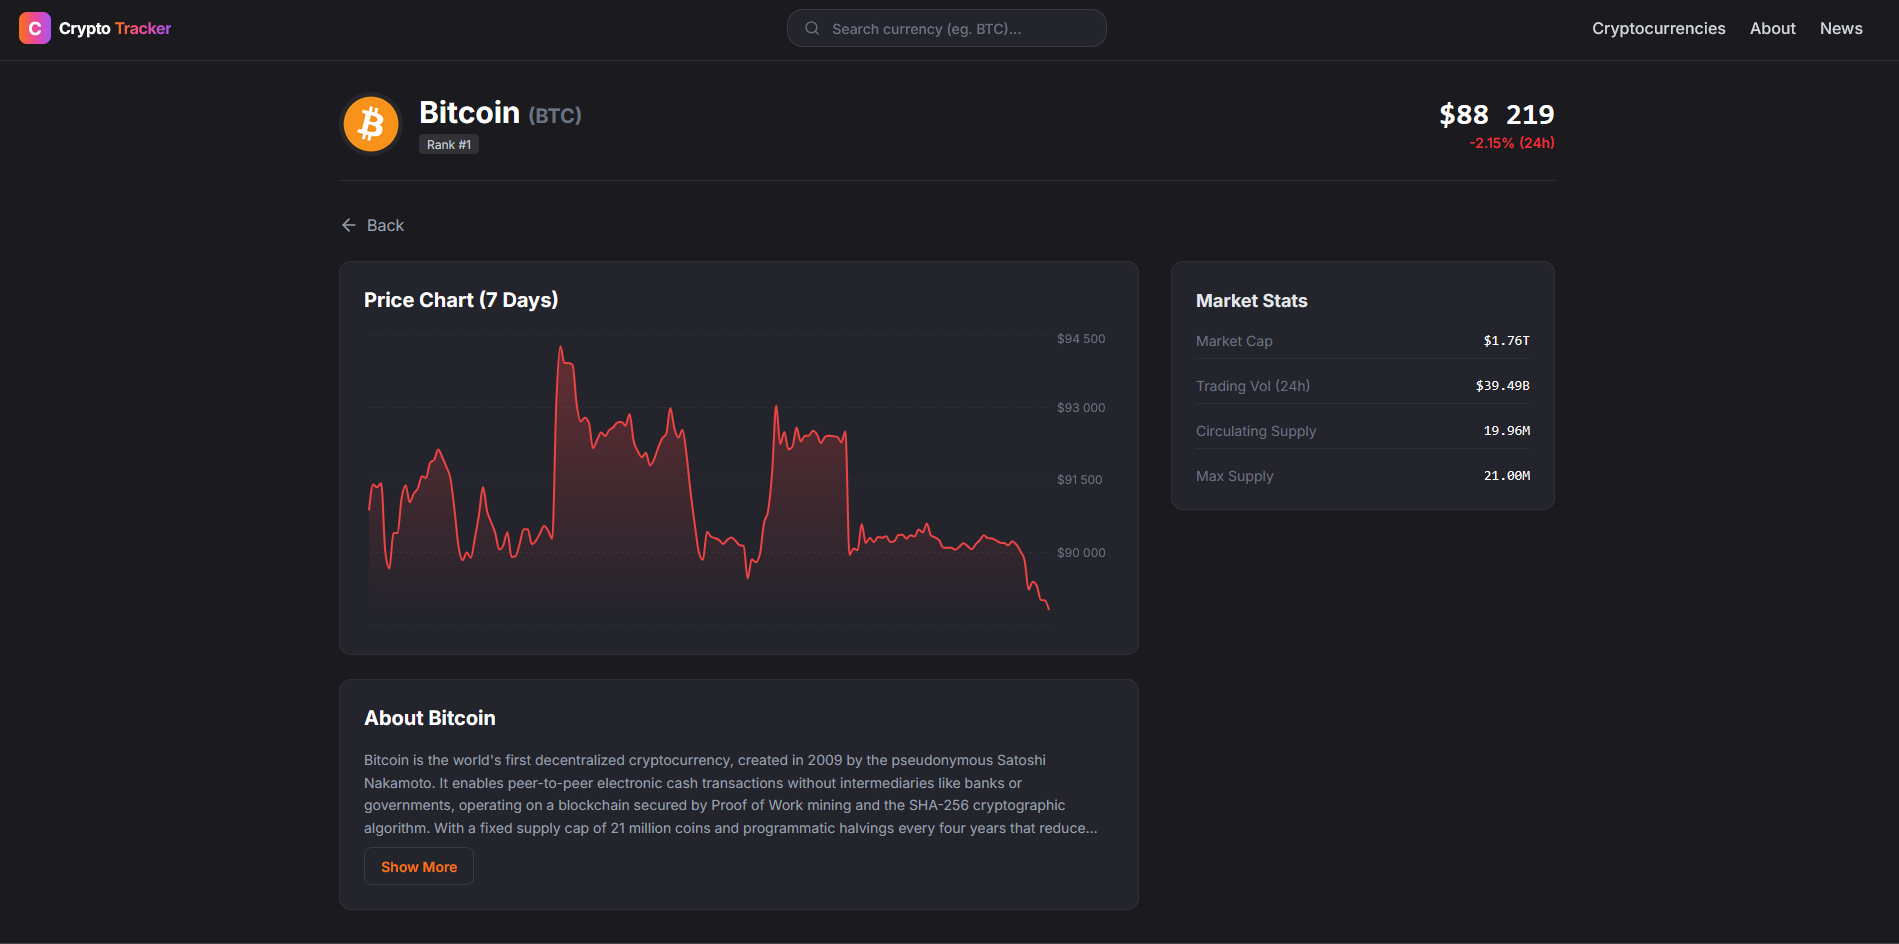
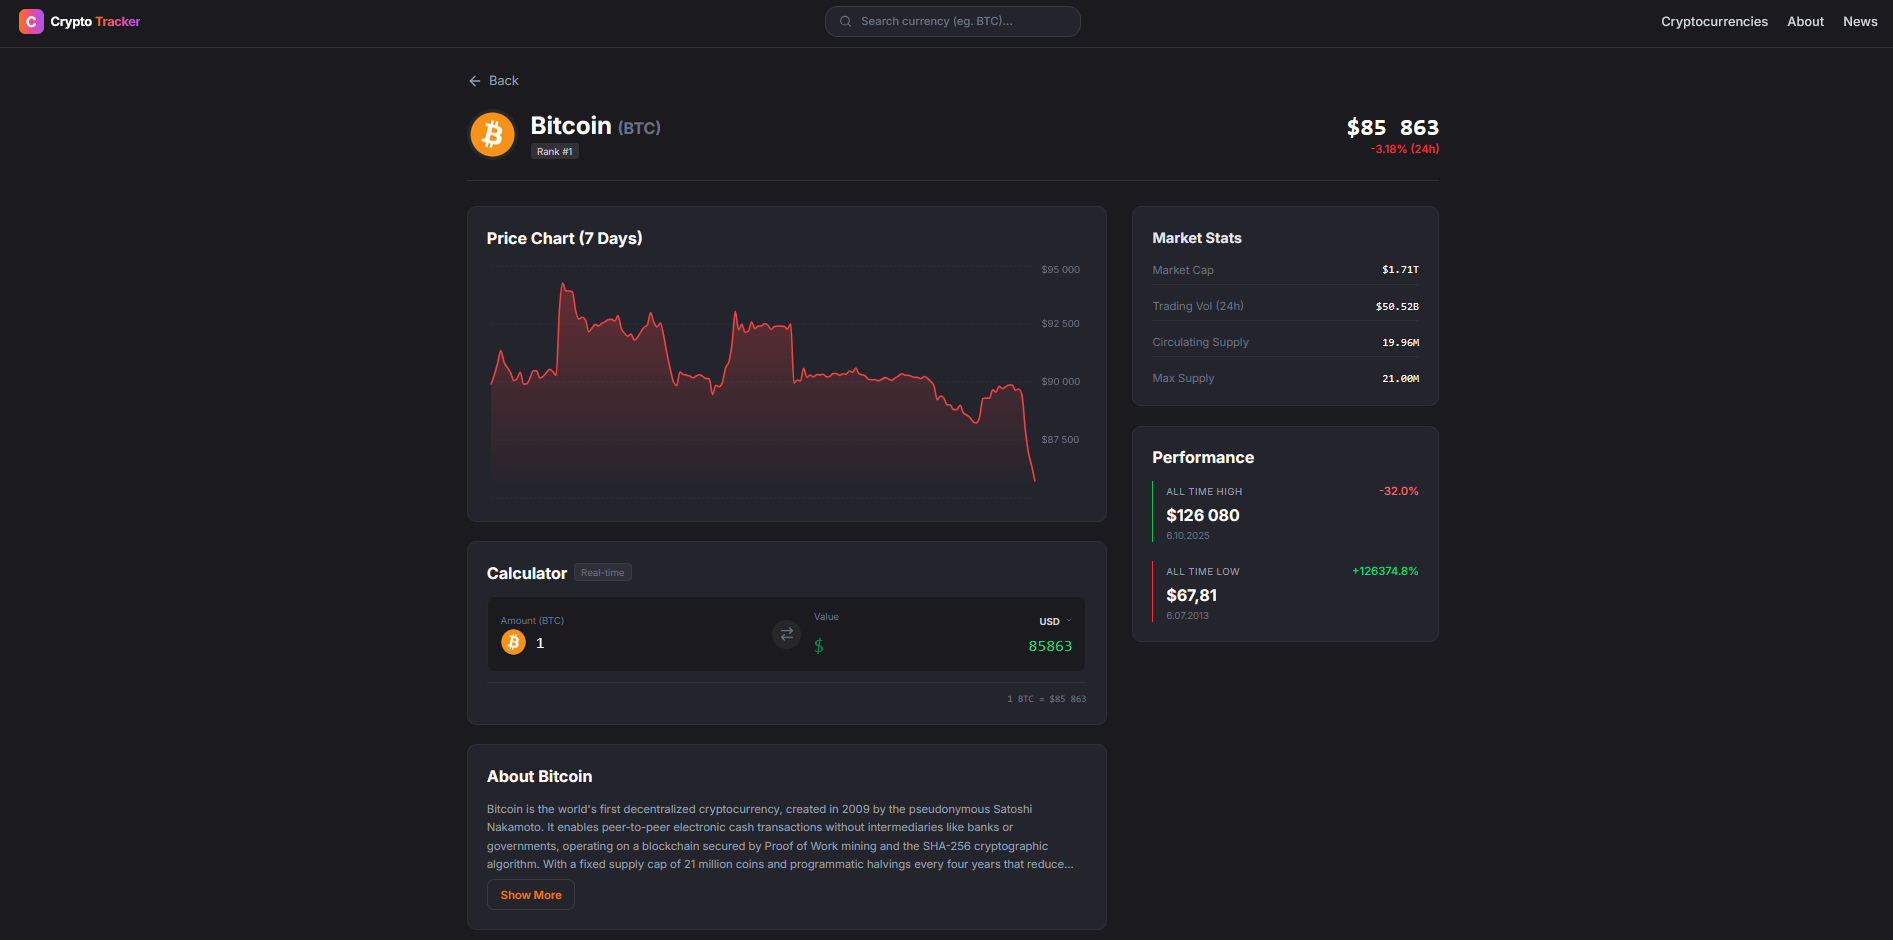
feat: complete coin details page with converter

diff --git a/src/Features/Converter/hooks/useConverterLogic.jsx b/src/Features/Converter/hooks/useConverterLogic.jsx
@@ -1,0 +1,67 @@
+import { useState, useMemo } from "react";
+import { PRIORITY_CURRENCIES, getCurrencySymbol, getFormattedFiat } from "../helpers/converterHelpser";
+
+export function useConverterLogic(coin) {
+	const prices = useMemo(() => {
+		return coin?.market_data?.current_price || {};
+	}, [coin]);
+
+	const availableCurrencies = useMemo(() => {
+		const keys = Object.keys(prices);
+		if (keys.length === 0) return [];
+		return keys.sort((a, b) => {
+			const isAPriority = PRIORITY_CURRENCIES.includes(a);
+			const isBPriority = PRIORITY_CURRENCIES.includes(b);
+			if (isAPriority && !isBPriority) return -1;
+			if (!isAPriority && isBPriority) return 1;
+			return a.localeCompare(b);
+		});
+	}, [prices]);
+
+	const [currency, setCurrency] = useState("usd");
+	const [cryptoAmount, setCryptoAmount] = useState(1);
+	const [fiatAmount, setFiatAmount] = useState(prices.usd || 0);
+
+	const currentRate = prices[currency] || 0;
+
+	const handleCryptoChange = (val) => {
+		if (parseFloat(val) < 0) return;
+
+		setCryptoAmount(val);
+		if (val === "" || isNaN(val)) {
+			setFiatAmount("");
+		} else {
+			setFiatAmount(parseFloat((parseFloat(val) * currentRate).toFixed(6)));
+		}
+	};
+
+	const handleFiatChange = (val) => {
+		if (parseFloat(val) < 0) return;
+		setFiatAmount(val);
+		if (val === "" || isNaN(val)) {
+			setCryptoAmount("");
+		} else {
+			setCryptoAmount(parseFloat((parseFloat(val) / currentRate).toFixed(8)));
+		}
+	};
+
+	const handleCurrencyChange = (newCurrency) => {
+		setCurrency(newCurrency);
+		const newRate = prices[newCurrency];
+		if (cryptoAmount && !isNaN(cryptoAmount)) {
+			setFiatAmount(parseFloat((cryptoAmount * newRate).toFixed(6)));
+		}
+	};
+
+	return {
+		hasData: !!coin?.market_data?.current_price && availableCurrencies.length > 0,
+		currency,
+		cryptoAmount,
+		fiatAmount,
+		currentRate,
+		availableCurrencies,
+		currencySymbol: getCurrencySymbol(currency),
+		formattedRate: getFormattedFiat(currentRate, currency),
+		actions: { handleCryptoChange, handleFiatChange, handleCurrencyChange },
+	};
+}

diff --git a/src/Pages/CoinPage/components/CoinPricePerformence.jsx b/src/Pages/CoinPage/components/CoinPricePerformence.jsx
@@ -1,0 +1,46 @@
+import { formatCurrency, formatPercentage } from "../../../utils/formatters";
+
+function CoinPricePerformence({ coin }) {
+	if (!coin?.market_data) return null;
+	const md = coin.market_data;
+
+	const formatDate = (dateString) => new Date(dateString).toLocaleDateString();
+
+	return (
+		<div className="bg-surface border border-white/5 rounded-xl p-6 mt-6">
+			<h3 className="text-xl font-bold mb-4">Performance</h3>
+
+			<div className="space-y-6">
+				{/* ATH */}
+				<div className="relative pl-4 border-l-2 border-green-500">
+					<div className="flex justify-between items-start">
+						<div>
+							<span className="text-xs text-gray-400 uppercase tracking-wider">All Time High</span>
+							<div className="text-xl font-bold text-white mt-1">{formatCurrency(md.ath.usd) || "-"}</div>
+						</div>
+						<div className="text-right">
+							<span className="text-red-400 text-sm font-medium">{formatPercentage(md.ath_change_percentage.usd) || "-"}</span>
+						</div>
+					</div>
+					<div className="text-xs text-gray-500 mt-1">{formatDate(md.ath_date.usd) || "-"}</div>
+				</div>
+
+				{/* ATL */}
+				<div className="relative pl-4 border-l-2 border-red-500">
+					<div className="flex justify-between items-start">
+						<div>
+							<span className="text-xs text-gray-400 uppercase tracking-wider">All Time Low</span>
+							<div className="text-xl font-bold text-white mt-1">{formatCurrency(md.atl.usd) || "-"}</div>
+						</div>
+						<div className="text-right">
+							<span className="text-green-400 text-sm font-medium">+{formatPercentage(md.atl_change_percentage.usd) || "-"}</span>
+						</div>
+					</div>
+					<div className="text-xs text-gray-500 mt-1">{formatDate(md.atl_date.usd) || "-"}</div>
+				</div>
+			</div>
+		</div>
+	);
+}
+
+export default CoinPricePerformence;

diff --git a/src/Features/Converter/FiatInput.jsx b/src/Features/Converter/FiatInput.jsx
@@ -1,0 +1,38 @@
+import { ChevronDown } from "lucide-react";
+
+export default function FiatInput({ amount, currency, currencies, symbol, onAmountChange, onCurrencyChange }) {
+	return (
+		<>
+			<div className="w-full sm:flex-1 relative group">
+				<div className="flex justify-between mb-1">
+					<label className="text-xs text-gray-500 group-focus-within:text-green-400 transition-colors">Value</label>
+					<div className="relative">
+						<select
+							value={currency}
+							onChange={(e) => onCurrencyChange(e.target.value)}
+							className="appearance-none bg-transparent text-xs font-bold text-gray-300 uppercase pr-4 cursor-pointer outline-none hover:text-white transition-colors text-right"
+						>
+							{currencies.map((c) => (
+								<option key={c} value={c} className="bg-[#2A2B35] text-white">
+									{c.toUpperCase()}
+								</option>
+							))}
+						</select>
+						<ChevronDown size={10} className="absolute right-0 top-1/2 -translate-y-1/2 text-gray-500 pointer-events-none" />
+					</div>
+				</div>
+				<div className="flex items-center gap-2 justify-end">
+					<span className="text-xl sm:text-2xl font-mono text-green-400/50">{symbol}</span>
+					<input
+						type="number"
+						min="0"
+						value={amount}
+						onChange={(e) => onAmountChange(e.target.value)}
+						className="w-full bg-transparent text-lg sm:text-xl font-mono text-green-400 text-right outline-none placeholder-green-400/20 min-w-0"
+						placeholder="0"
+					/>
+				</div>
+			</div>
+		</>
+	);
+}

diff --git a/src/Features/Converter/CoinConverter.jsx b/src/Features/Converter/CoinConverter.jsx
@@ -1,0 +1,42 @@
+import ConverterIcon from "./ConverterIcon";
+import CryptoInput from "./CryptoInput";
+import FiatInput from "./FiatInput";
+import { useConverterLogic } from "./hooks/useConverterLogic";
+
+function CoinConverter({ coin }) {
+	const { hasData, currency, cryptoAmount, fiatAmount, availableCurrencies, currencySymbol, formattedRate, actions } = useConverterLogic(coin);
+
+	if (!hasData) return null;
+
+	return (
+		<div className="bg-surface border border-white/5 rounded-xl p-4 sm:p-6 mb-6">
+			<h3 className="text-lg sm:text-xl font-bold mb-4 flex items-center gap-2">
+				Calculator
+				<span className="hidden sm:inline-block text-xs font-normal text-gray-500 bg-white/5 px-2 py-0.5 rounded border border-white/5">
+					Real-time
+				</span>
+			</h3>
+
+			<div className="flex flex-col sm:flex-row items-center gap-4 bg-background p-4 rounded-lg border border-white/5">
+				<CryptoInput coin={coin} amount={cryptoAmount} onChange={actions.handleCryptoChange} />
+
+				<ConverterIcon />
+
+				<FiatInput
+					amount={fiatAmount}
+					currency={currency}
+					currencies={availableCurrencies}
+					symbol={currencySymbol}
+					onAmountChange={actions.handleFiatChange}
+					onCurrencyChange={actions.handleCurrencyChange}
+				/>
+			</div>
+
+			<p className="text-xs text-gray-500 mt-3 text-center sm:text-right font-mono border-t border-white/5 pt-3">
+				1 {coin.symbol.toUpperCase()} = {formattedRate}
+			</p>
+		</div>
+	);
+}
+
+export default CoinConverter;

diff --git a/src/Pages/CoinPage/components/CoinAbout.jsx b/src/Pages/CoinPage/components/CoinAbout.jsx
@@ -6,25 +6,24 @@ function CoinAbout({ coin }) {
 	const { name, description } = coin;
 	const isLongText = description.en.length > 400;
 
+	if (!description) return null;
+
 	return (
 		<div className="bg-surface border border-white/5 rounded-xl p-6">
 			<h3 className="text-xl font-bold mb-4">About {name}</h3>
-			{!description ? (
-				<div className="text-gray-500 italic">No description available.</div>
-			) : (
-				<div className="relative">
-					<div
-						className={`text-gray-400 leading-relaxed text-sm [&>a]:text-primary [&>a]:underline ${!isExpanded ? "line-clamp-4 relative" : ""}`}
-						dangerouslySetInnerHTML={{ __html: description?.en || "No description available." }}
-					/>
 
-					{isLongText && (
-						<Button onClick={() => setIsExpanded((prev) => !prev)} variant="secondary" className="mt-2 text-primary text-sm font-semibold  px-4 py-2">
-							{isExpanded ? "Show less" : "Show More"}
-						</Button>
-					)}
-				</div>
-			)}
+			<div className="relative">
+				<div
+					className={`text-gray-400 leading-relaxed text-sm ${!isExpanded ? "line-clamp-4 relative" : ""}`}
+					dangerouslySetInnerHTML={{ __html: description?.en || "No description available." }}
+				/>
+
+				{isLongText && (
+					<Button onClick={() => setIsExpanded((prev) => !prev)} variant="secondary" className="mt-2 text-primary text-sm font-semibold  px-4 py-2">
+						{isExpanded ? "Show less" : "Show More"}
+					</Button>
+				)}
+			</div>
 		</div>
 	);
 }

diff --git a/src/Pages/CoinPage/CoinPage.jsx b/src/Pages/CoinPage/CoinPage.jsx
@@ -6,6 +6,8 @@ import CoinAbout from "./components/CoinAbout";
 import CoinMarketStats from "./components/CoinMarketStats";
 import CoinChart from "./components/CoinChart";
 import ButtonBack from "../../ui/ButtonBack";
+import CoinConverter from "../../Features/Converter/CoinConverter";
+import CoinPricePerformence from "./components/CoinPricePerformence";
 
 function CoinPage() {
 	const { id } = useParams();
@@ -25,8 +27,11 @@ function CoinPage() {
 
 	return (
 		<div className="animate-in fade-in duration-500 pb-20">
-			<CoinHeader coin={coin} />
-			<ButtonBack />
+			<div className="mb-6">
+				<ButtonBack />
+			</div>
+			<CoinHeader coin={coin} key={coin.id} />
+
 			{/* Content Grid */}
 			<div className="grid grid-cols-1 lg:grid-cols-3 gap-8">
 				<div className="lg:col-span-2 space-y-6">
@@ -34,9 +39,13 @@ function CoinPage() {
 						<h3 className="text-xl font-bold mb-4">Price Chart (7 Days)</h3>
 						<CoinChart prices={coin.market_data?.sparkline_7d?.price} color={chartColor} />
 					</div>
+					<CoinConverter coin={coin} />
 					<CoinAbout coin={coin} />
 				</div>
-				<CoinMarketStats coin={coin} />
+				<div className="lg:col-span-1">
+					<CoinMarketStats coin={coin} />
+					<CoinPricePerformence coin={coin} />
+				</div>
 			</div>
 		</div>
 	);

diff --git a/src/Features/Converter/helpers/converterHelpser.js b/src/Features/Converter/helpers/converterHelpser.js
@@ -1,0 +1,27 @@
+import { formatCurrency } from "../../../utils/formatters";
+
+export const PRIORITY_CURRENCIES = ["usd", "eur", "pln", "gbp", "jpy", "btc", "eth"];
+
+export const getCurrencySymbol = (code) => {
+	if (code === "usd") return "$";
+	try {
+		return new Intl.NumberFormat(undefined, { style: "currency", currency: code.toUpperCase() }).formatToParts(0).find((p) => p.type === "currency")
+			?.value;
+	} catch (e) {
+		return code.toUpperCase();
+	}
+};
+
+export const getFormattedFiat = (value, code) => {
+	if (!value && value !== 0) return "";
+	if (code === "usd") return formatCurrency(value);
+	try {
+		return new Intl.NumberFormat(undefined, {
+			style: "currency",
+			currency: code.toUpperCase(),
+			maximumFractionDigits: 2,
+		}).format(value);
+	} catch (e) {
+		return `${value} ${code.toUpperCase()}`;
+	}
+};

diff --git a/src/Features/Converter/CryptoInput.jsx b/src/Features/Converter/CryptoInput.jsx
@@ -1,0 +1,20 @@
+export default function CryptoInput({ coin, amount, onChange }) {
+	return (
+		<div className="w-full sm:flex-1 relative group">
+			<label className="text-xs text-gray-500 mb-1 block group-focus-within:text-primary transition-colors">
+				Amount ({coin.symbol.toUpperCase()})
+			</label>
+			<div className="flex items-center gap-3">
+				<img src={coin.image?.small} alt={coin.symbol} className="w-8 h-8 rounded-full shadow-sm shrink-0" />
+				<input
+					type="number"
+                    min="0"
+					value={amount}
+					onChange={(e) => onChange(e.target.value)}
+					className="w-full bg-transparent text-lg sm:text-xl font-mono text-white outline-none placeholder-white/20 min-w-0"
+					placeholder="0"
+				/>
+			</div>
+		</div>
+	);
+}

diff --git a/src/index.css b/src/index.css
@@ -23,6 +23,16 @@
 
 /* Global Styles */
 body {
+	input[type="number"]::-webkit-outer-spin-button,
+	input[type="number"]::-webkit-inner-spin-button {
+		-webkit-appearance: none;
+		margin: 0;
+	}
+
+	input[type="number"] {
+		-moz-appearance: textfield;
+	}
+
 	background-color: var(--color-background);
 	color: white;
 	font-family: var(--font-sans);

diff --git a/src/Features/Converter/ConverterIcon.jsx b/src/Features/Converter/ConverterIcon.jsx
@@ -1,0 +1,12 @@
+import { ArrowDown, ArrowRightLeft } from "lucide-react";
+
+function ConverterIcon() {
+	return (
+		<div className="text-gray-500 bg-white/5 p-2 rounded-full shrink-0">
+			<ArrowDown className="block sm:hidden" size={20} />
+			<ArrowRightLeft className="hidden sm:block" size={20} />
+		</div>
+	);
+}
+
+export default ConverterIcon;

diff --git a/README.md b/README.md
@@ -115,20 +115,7 @@ npm run dev
 
 ## Todo
 
-- **Crypto Table:**
-  - _Current status: Real-time global metrics, Pagination_
-  - sorting, filtering.
-
-- **Coin Details Page**
-  - _Current status: coind data with chart for past 7days_
-  - **Converter:** Quick calculator for converting values (e.g., 0.5 BTC to USD/PLN).
-  - **Key Metrics:** Circulating Supply, All-Time High (ATH), All-Time Low (ATL).
-  - **About:** Brief description of the project with links to the whitepaper and official website.
-
-- **Watchlist (Favorites)**
-  - _Current status: UI only._
-  - Planned: Persistence via LocalStorage.
-  - Ability to "star" coins to create a personalized list of tracked assets.
+- News Page
 
 ### Data:
 
